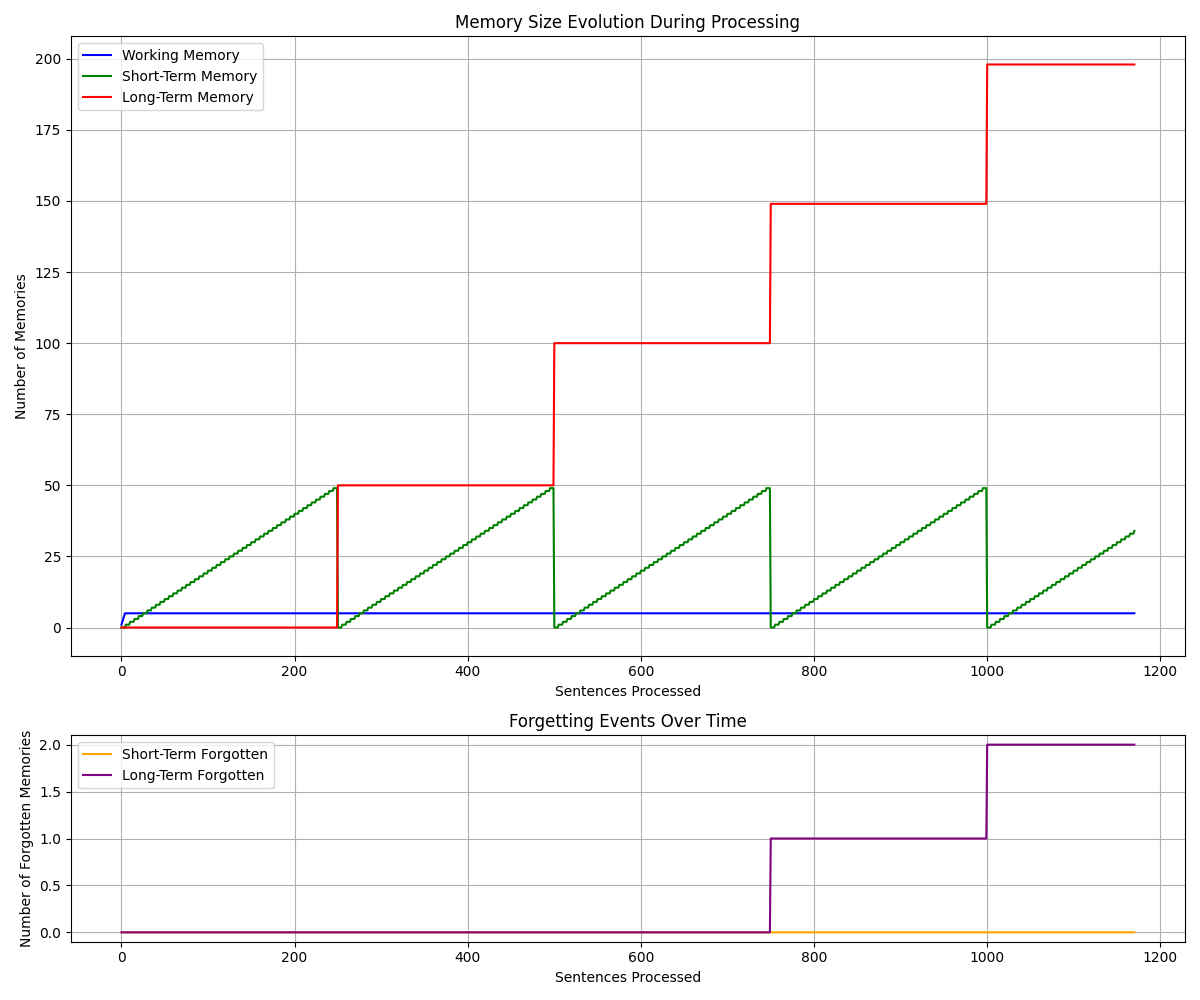
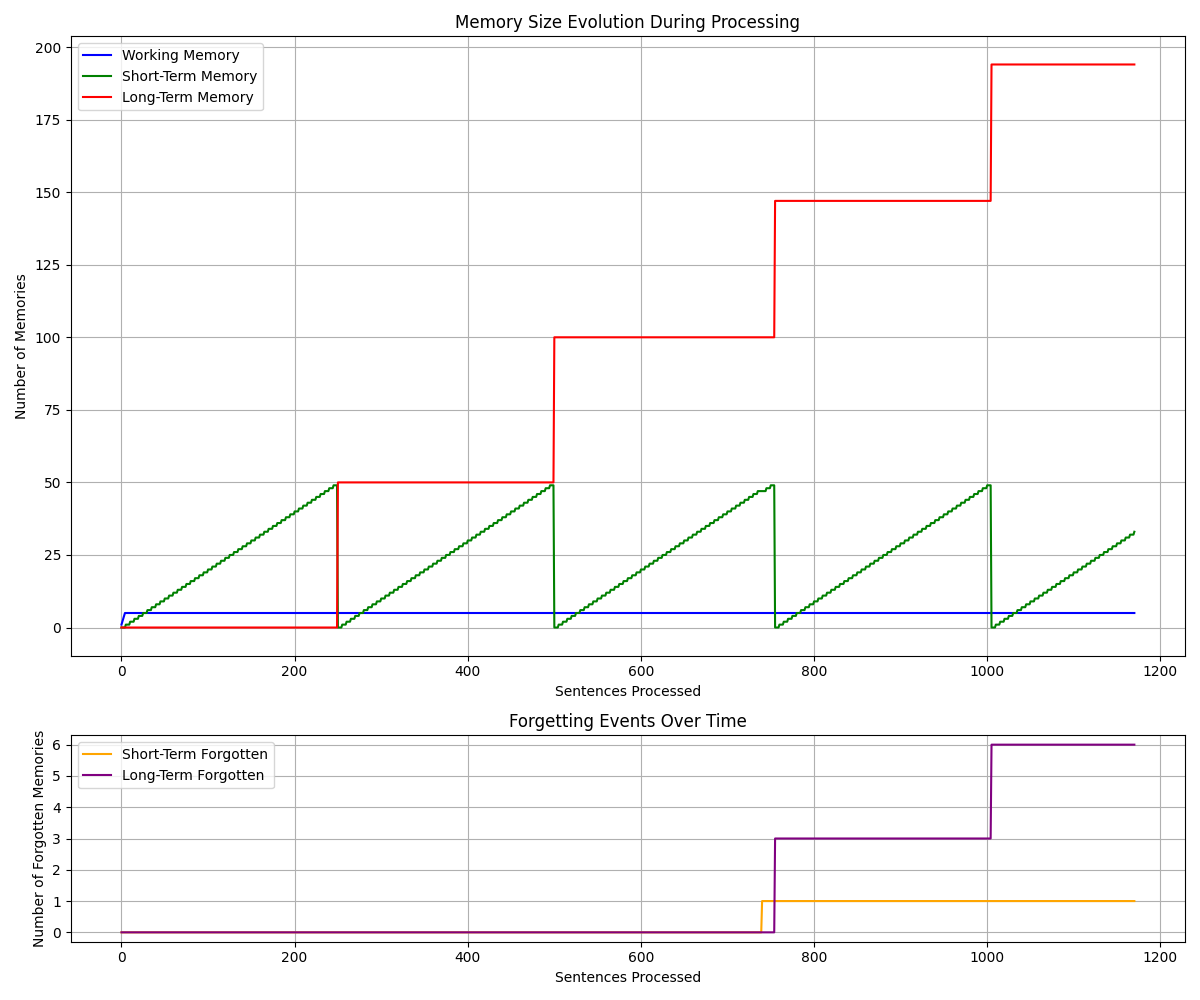
correct examples

diff --git a/examples/story_memory.py b/examples/story_memory.py
@@ -88,18 +88,18 @@ class TrackedEmbeddingMemory(EmbeddingMemory):
         
         if similar_indices:
             self.forgotten_count += len(similar_indices)
-            print(f"\n🗑 FORGETTING TRIGGERED in {self.memory_type} memory!")
-            print(f"  Number of similar memories being forgotten: {len(similar_indices)}")
-            print(f"  Total forgotten so far: {self.forgotten_count}")
-            print(f"  Forgetting threshold: {self.forgetting_threshold}")
+            # print(f"\n🗑 FORGETTING TRIGGERED in {self.memory_type} memory!")
+            # print(f"  Number of similar memories being forgotten: {len(similar_indices)}")
+            # print(f"  Total forgotten so far: {self.forgotten_count}")
+            # print(f"  Forgetting threshold: {self.forgetting_threshold}")
             
             # Show the similar memories that will be forgotten
-            for idx in similar_indices[:3]:  # Show at most 3 to avoid clutter
-                print(f"  Forgotten memory: \"{self.memory_bank[idx]}\"")
-                print(f"  Similarity score: {similarities[0][idx]:.4f}")
+            # for idx in similar_indices[:3]:  # Show at most 3 to avoid clutter
+            #     print(f"  Forgotten memory: \"{self.memory_bank[idx]}\"")
+            #     print(f"  Similarity score: {similarities[0][idx]:.4f}")
             
-            if len(similar_indices) > 3:
-                print(f"  ... and {len(similar_indices) - 3} more.")
+            # if len(similar_indices) > 3:
+            #     print(f"  ... and {len(similar_indices) - 3} more.")
 
         # Remove the similar memories and embeddings based on their indices
         for index in sorted(similar_indices, reverse=True):
@@ -109,20 +109,17 @@ class TrackedEmbeddingMemory(EmbeddingMemory):
 # Create a tracked version of ChunkedMemory that logs summarization
 class TrackedMemory(ChunkedMemory):
     def summarize(self, memory_from: str = "shortmem", memory_to: str = "longmem"):
-        print("\n🔍 CLUSTERING AND SUMMARIZATION INPUT:")
-        print(f"  Short-term memories to be processed ({len(self.shortmem.items)} items):")
-        for i, item in enumerate(self.shortmem.items):
-            print(f"  {i+1}. {item}")
-        
-        dbscan = DBSCAN(eps=0.55, min_samples=1)
-        labels = dbscan.fit_predict(getattr(self, memory_from).items_embeddings)
-        
+        # print("\n🔍 CLUSTERING AND SUMMARIZATION INPUT:")
+        # print(f"  Short-term memories to be processed ({len(self.shortmem.items)} items):")
+        # for i, item in enumerate(self.shortmem.items):
+        #     print(f"  {i+1}. {item}")
+           
         results = super().summarize(memory_from, memory_to)
         
-        print("\n🔄 CLUSTERING AND SUMMARIZATION RESULTS:")
-        for i, summary in enumerate(results):
-            print(f"  Cluster/Summary {i+1}: {summary}")
-        print()
+        # print("\n🔄 CLUSTERING AND SUMMARIZATION RESULTS:")
+        # for i, summary in enumerate(results):
+        #     print(f"  Cluster/Summary {i+1}: {summary}")
+        # print()
         
         return results
 
@@ -157,10 +154,10 @@ def main():
     memory_modules = {
         "workmem": MemoryStore(capacity=working_memory_capacity),
         "shortmem": TrackedEmbeddingMemory(capacity=short_term_memory_capacity, num_memories_queried=3, 
-                                            forgetting_threshold=0.9, memory_type="short-term",
+                                            forgetting_threshold=0.8, memory_type="short-term",
                                             encoder=encoder, name="Story Memory Example"),
         "longmem": TrackedEmbeddingMemory(capacity=long_term_memory_capacity, num_memories_queried=3, 
-                                           forgetting_threshold=0.9, memory_type="long-term",
+                                           forgetting_threshold=0.8, memory_type="long-term",
                                            encoder=encoder, name="Story Memory Example")
     }
     
@@ -192,17 +189,6 @@ def main():
     story_text = story_text.replace('\n', ' ').strip()
     sentences = re.split(r'(?<=[.!?])\s+', story_text)
     sentences = [s.strip() for s in sentences if s.strip()]
-    
-    # Add some duplicate sentences to better demonstrate forgetting mechanism
-    duplicated_sentences = []
-    for i, sentence in enumerate(sentences[:100]):  # Take first 100 sentences
-        if i % 10 == 0:  # Every 10th sentence
-            duplicated_sentences.append(sentence)  # Add it twice
-    
-    # Insert duplicated sentences randomly in the second half
-    for sentence in duplicated_sentences:
-        position = random.randint(len(sentences)//2, len(sentences)-1)
-        sentences.insert(position, sentence + " (duplicated)")
     
     # Set up tracking for memory sizes over time
     time_steps = []

diff --git a/run_examples.py b/run_examples.py
@@ -10,8 +10,8 @@ from pathlib import Path
 
 def main():
     parser = argparse.ArgumentParser(description='Run SaF Memory examples')
-    parser.add_argument('example', choices=['story', 'interactive', 'all'], 
-                      help='Which example to run: "story" for story_memory.py, "interactive" for interactive_memory.py, or "all" to run all examples')
+    parser.add_argument('example', choices=['story', 'interactive'], 
+                      help='Which example to run: "story" for story_memory.py, "interactive" for interactive_memory.py')
     
     args = parser.parse_args()
     
@@ -27,10 +27,6 @@ def main():
         script_path = examples_dir / 'interactive_memory.py'
         print("Running the Interactive Memory Demo...")
         run_examples([script_path], "Interactive Memory")
-    else:  # args.example == 'all'
-        script_path = examples_dir / 'story_memory.py'
-        print("Running the Story Memory example...")
-        run_examples([script_path], "Story Memory")
 
 def run_examples(script_paths, example_name):
     """Run the specified example scripts."""
@@ -58,7 +54,6 @@ if __name__ == "__main__":
         print("Please specify which example to run:")
         print("  python run_examples.py story       - Run the Story Memory example")
         print("  python run_examples.py interactive - Run the Interactive Memory Demo")
-        print("  python run_examples.py all         - Run all examples sequentially")
         sys.exit(1)
     
     main() 

diff --git a/tests/test_setup.py b/tests/test_setup.py
@@ -39,11 +39,6 @@ try:
     
     # Memory prompt templates
     memory_prompts = {
-        "workmem_to_shortmem": [
-            "The following are some memories from {name}:",
-            "{workmem}",
-            "Please summarize the above memories into one concise, informative passage that preserves the key information."
-        ],
         "shortmem_to_longmem": [
             "The following are some memories from {name}:",
             "{shortmem}",
@@ -56,9 +51,9 @@ try:
     
     # Initialize memory modules with small capacities for demonstration
     memory_modules = {
-        "workmem": MemoryStore(capacity=3),
-        "shortmem": EmbeddingMemory(capacity=5, num_memories_queried=3, encoder=encoder, name="Test Setup"),
-        "longmem": EmbeddingMemory(capacity=100, num_memories_queried=3, encoder=encoder, name="Test Setup")
+        "workmem": MemoryStore(capacity=5),
+        "shortmem": EmbeddingMemory(capacity=50, num_memories_queried=3, encoder=encoder, name="Test Setup"),
+        "longmem": EmbeddingMemory(capacity=10000, num_memories_queried=3, encoder=encoder, name="Test Setup")
     }
     
     # Create memory manager

diff --git a/memory_architecture/manager/default_manager.py b/memory_architecture/manager/default_manager.py
@@ -416,7 +416,7 @@ class ChunkedMemory(AbstractMemoryManager):
         
         # record the number of clusters and elements
         if memory_from == "shortmem":
-            print(f'len_cluster_list={len(clusters_list)}, mean_elements={clusters_list}')
+        # print(f'len_cluster_list={len(clusters_list)}, mean_elements={clusters_list}')
             self.num_cluster_average.append(len(clusters_list))
         
         prompt_name = f"{memory_from}_to_{memory_to}"
